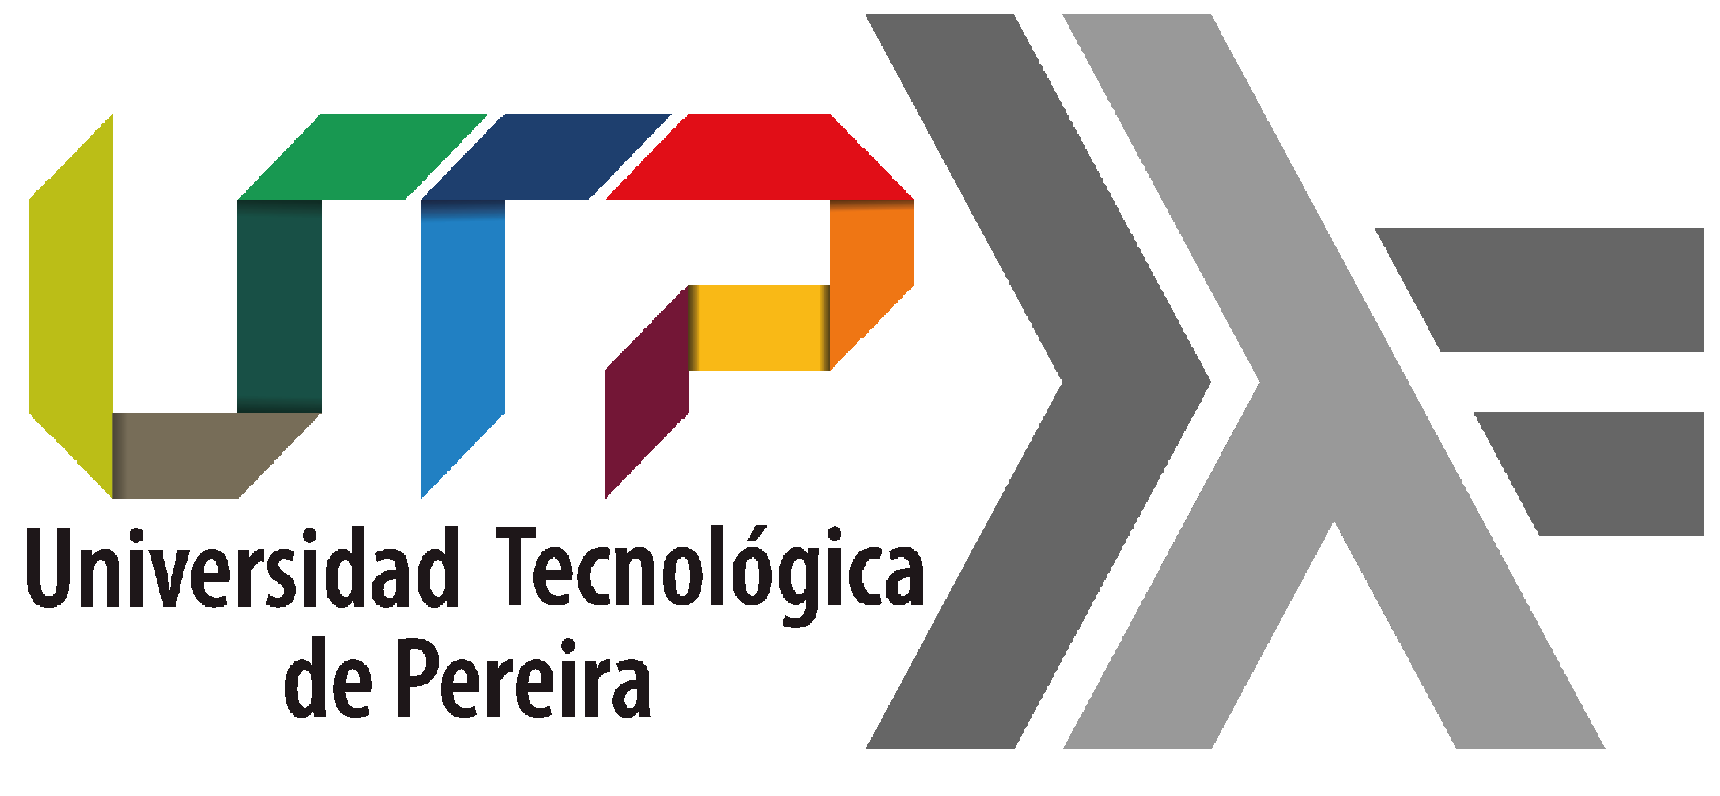
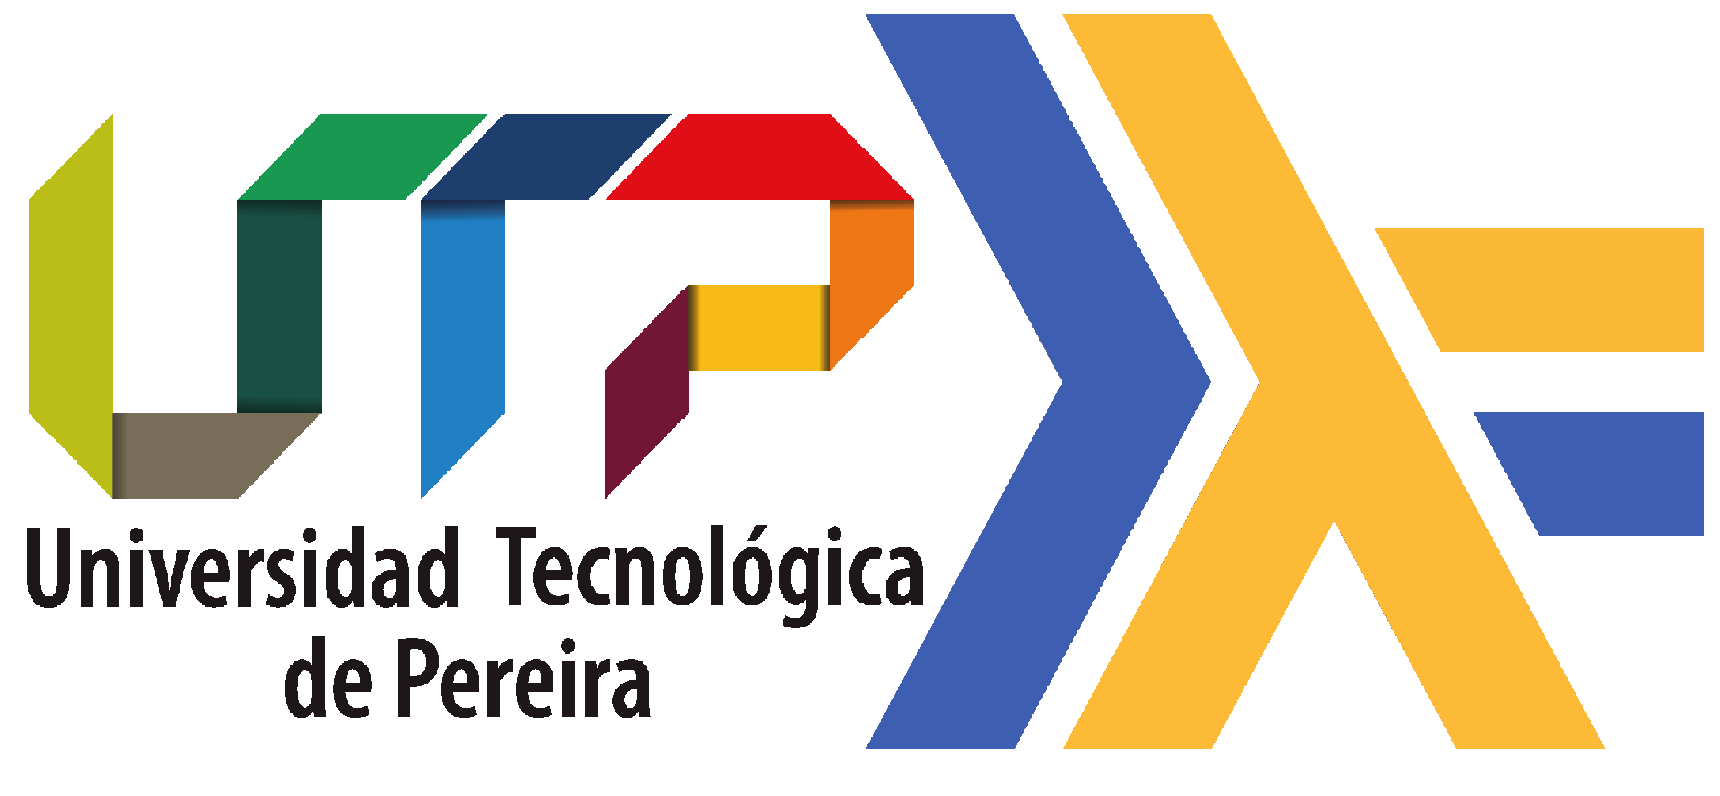
Changed images and colors

Changed region(s): [[0.493, 0.0, 1.0, 0.9648]]

diff --git a/public/css/base.css b/public/css/base.css
@@ -2,58 +2,68 @@
     font-family: "Source_Sans_Pro_Extra";
     src: url("../fonts/Source_Sans_Pro/SourceSansPro-Regular.ttf");
 }
+
 @font-face {
     font-family: "Dosis";
     src: url("../fonts/Dosis/Dosis-Regular.ttf");
 }
 
-*{
+* {
     font-family: "Dosis";
 }
 
-#nav{
+#nav {
     position: fixed;
     width: 100%;
     height: 50px;
-    z-index: 2;    
+    z-index: 2;
     background-color: white;
     border-bottom: 1px solid black;
 }
 
-#nav .nav-item a:hover{
+#nav .nav-item a:hover {
     border-bottom: 1px solid black;
 }
 
-.container-fluid{
+.container-fluid {
     max-width: 1111px;
 }
 
-.container-fluid img{
+.container-fluid img {
     width: 100%;
 }
 
-.body{
+.color-yellow {
+    color: #fdba36;
+    font-weight: bold
+}
+
+.color-blue {
+    color: #3e5eb1;
+    font-weight: bold
+}
+
+.body {
     max-width: 1111px;
     margin: auto;
 }
 
-.recuadros{
+.recuadros {
     background-image: url('../images/all/RecuadrosTransparencia.png');
     background-size: cover;
 }
 
-
-.desactivate{
+.desactivate {
     display: none;
 }
 
-footer{
+footer {
     background-color: black;
     color: white;
     padding: 20px 10px;
     margin: 30px auto 0px auto !important;
 }
 
-footer a{
+footer a {
     color: white;
 }

diff --git a/resources/views/welcome.blade.php b/resources/views/welcome.blade.php
@@ -9,7 +9,7 @@
         <main id="main">
             <div class="row mx-auto">
                 <div class="col-lg-6 col-md-6">
-                    <h3>Guía del paradigma funcional con haskell</h3>
+                    <h3 class="color-yellow">Guía del paradigma funcional con haskell</h3>
                     <p>
                         Este es un nuevo software desarrollado por la Universidad Tecnológica de Pereira, el cual busca
                         servir como ayuda para el aprendizaje de la programación funcional basados en el lenguaje de
@@ -31,7 +31,7 @@
     <div class="body">
         <div class="row mx-auto p-2 recuadros">
             <div class="col-lg-12 col-12 mt-1 explain">
-                <h2 class="">¿Qué es Haskell?</h2>
+                <h2 class="color-blue">¿Qué es Haskell?</h2>
                 <p>
                     Haskell es uno de los lenguajes lideres a la hora de enseñar programación funcional, pues permite
                     escribir código simple y claro, enseña como estructurar y razonar programas. Haskell es diferente a
@@ -41,7 +41,7 @@
                 </p>
             </div>
             <div class="col-lg-6 col-md-6 col-12 explain">
-                <h2>¿Qué son los módulos?</h2>
+                <h2 class="color-yellow">¿Qué son los módulos?</h2>
                 <p>
                     Los módulos son secciones en esta pagina donde se encuentran todos los temas relacionados a la
                     programación funcional y al lenguaje de programación Haskell, cada uno de estos módulos cuenta con una
@@ -50,7 +50,7 @@
                 </p>
             </div>
             <div class="col-lg-6 col-md-6 col-12 explain">
-                <h2>¿Qué son los ejercicios?</h2>
+                <h2 class="color-blue">¿Qué son los ejercicios?</h2>
                 <p>
                     Los ejercicios se encuentran en un apartado dentro de cada módulo, estos ejercicios son problemas
                     planteados los cuales se le piden al usuario desarrollar dentro del software. Estos ejercicios buscan
@@ -63,7 +63,7 @@
     <div class="row mx-auto p-2 bg-light">
         <div class="body">
             <div class="col-lg-12 col-12 mt-4 explain" id="modulos">
-                <h2 class="">MÓDULOS</h2>
+                <h2 class="color-yellow">MÓDULOS</h2>
                 <p>
                     Lorem ipsum dolor sit amet consectetur adipisicing elit. Ipsam, animi possimus corrupti, facilis
                     aspernatur est modi optio eos consequatur sint iusto, tempora excepturi id molestias. Aut odit accusamus

diff --git a/resources/views/funcional/index.blade.php b/resources/views/funcional/index.blade.php
@@ -8,7 +8,7 @@
 
     {{-- Left Content --}}
     <aside class="bg-light">
-        <h4>Programación Funcional</h4>
+        <h4 class="color-blue">Programación Funcional</h4>
         <ul>
             <li><a href="#" data-name="funciones" class="item active">1.1 Funciones</a></li>
             <li><a href="#" data-name="sesiones" class="item">1.2 Sesiones y Declaraciones</a></li>
@@ -20,7 +20,7 @@
 
     <div class="row section-info-moduls">
         <div class="col-lg-12 mx-auto px-3 pt-5" id="funciones">
-            <h4>1.1 Funciones</h4>
+            <h4 class="color-yellow">1.1 Funciones</h4>
             <p class="my-4">
                 En matemáticas, hablar de una función F entre dos conjuntos A y B, llamados conjunto inicial y final, es una
                 correspondencia que cada elemento de un subconjunto de A, llamado el dominio de F, le hace corresponder uno
@@ -91,7 +91,7 @@
         </div>
 
         <div class="col-lg-12 mx-auto px-3 pt-5 desactivate" id="sesiones">
-            <h4>1.2 Sesiones y Declaraciones</h4>
+            <h4 class="color-blue">1.2 Sesiones y Declaraciones</h4>
             <p class="my-4">
                 Programar consiste en especificar al ordenador los pasos que debe seguir para resolver un problema. La
                 solución a un problema es un valor que se calcula a partir de ciertos datos, por lo que un modo natural de
@@ -203,11 +203,11 @@
         </div>
 
         <div class="col-lg-12 mx-auto px-3 pt-5 desactivate" style="height: 100vh" id="reduccion">
-            <h4>1.3 Reducción de expresiones</h4>
+            <h4 class="color-yellow">1.3 Reducción de expresiones</h4>
         </div>
 
         <div class="col-lg-12 mx-auto px-3 pt-5 desactivate" style="height: 100vh" id="sobrehaskell">
-            <h4>1.4 Sobre Haskell</h4>
+            <h4 class="color-blue">1.4 Sobre Haskell</h4>
         </div>
 
 
